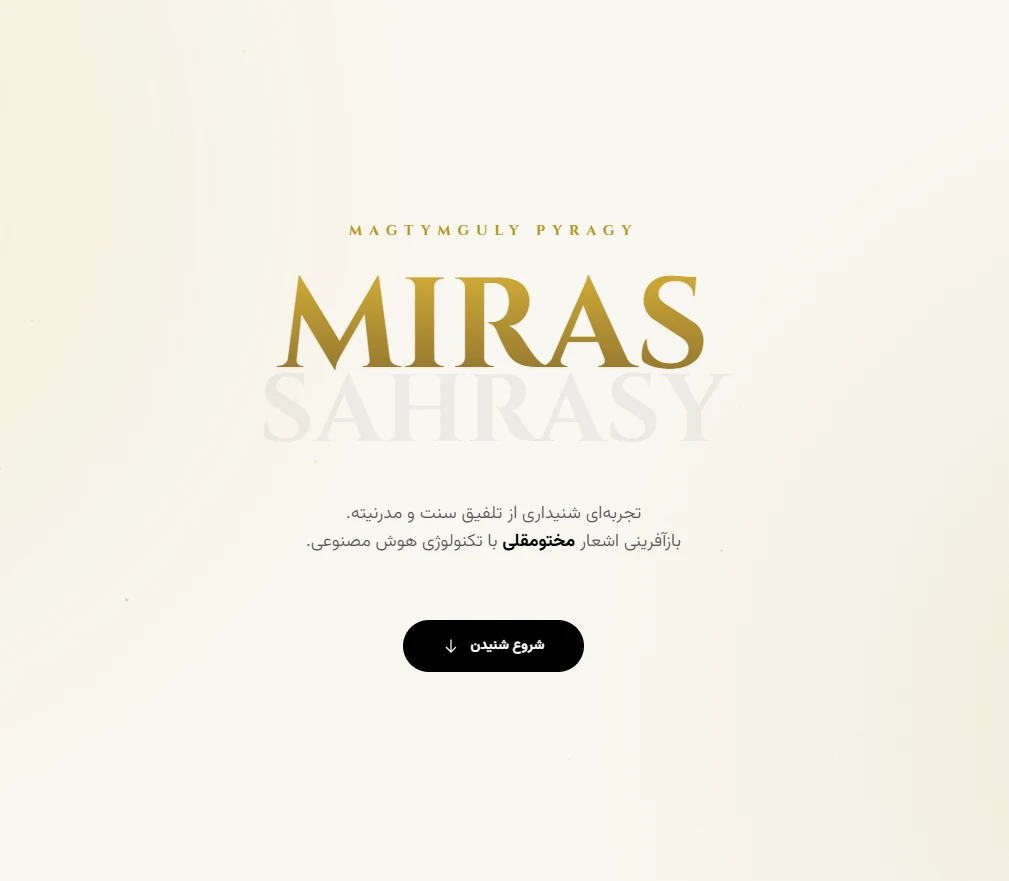
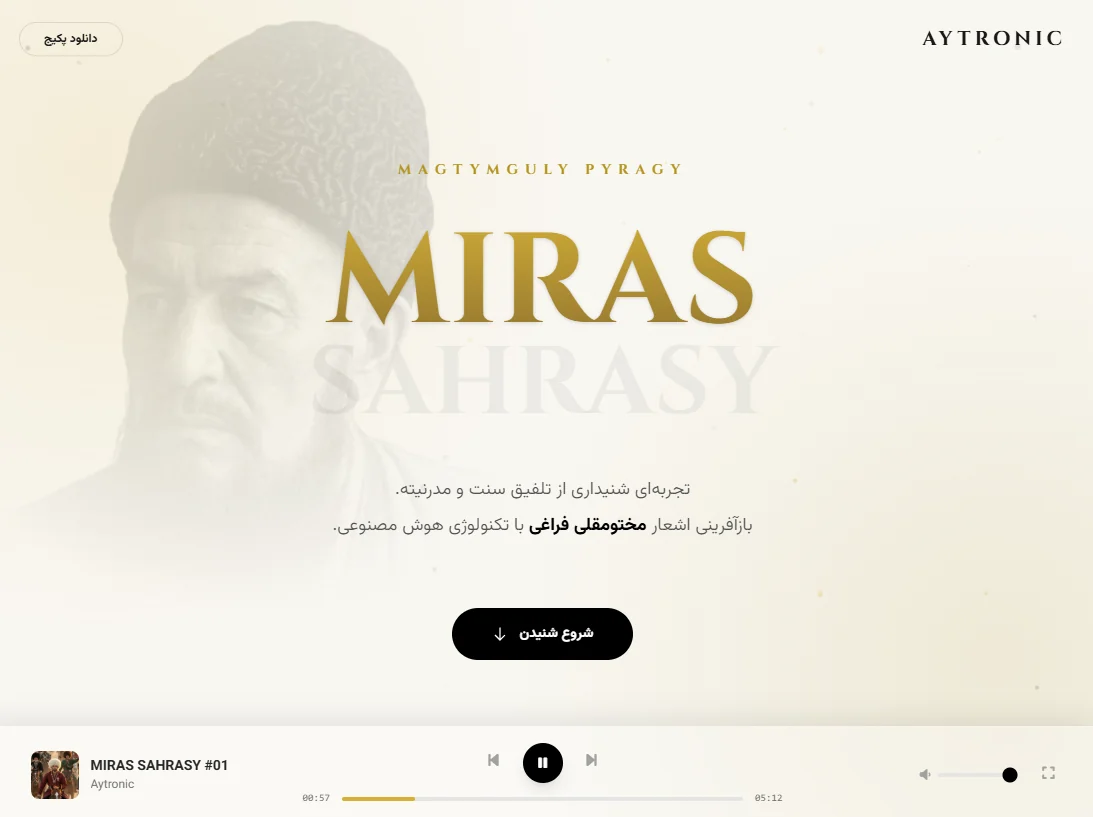
added perfect loading

diff --git a/index.html b/index.html
@@ -242,9 +242,85 @@
       html {
         scroll-behavior: smooth;
       }
+
+      /* Preloader */
+      #preloader {
+        position: fixed;
+        top: 0;
+        left: 0;
+        width: 100%;
+        height: 100%;
+        background-color: #1a1a1a;
+        z-index: 9999;
+        display: flex;
+        flex-direction: column;
+        justify-content: center;
+        align-items: center;
+        transition: opacity 0.8s ease-out, visibility 0.8s ease-out;
+      }
+      .loader-wave {
+        display: flex;
+        justify-content: center;
+        align-items: flex-end;
+        height: 60px;
+        gap: 8px;
+      }
+      .bar {
+        width: 8px;
+        height: 20px;
+        background-color: #d4af37;
+        animation: wave 1.2s ease-in-out infinite;
+        border-radius: 4px;
+        box-shadow: 0 0 10px rgba(212, 175, 55, 0.5);
+      }
+      .bar:nth-child(1) { animation-delay: 0.0s; }
+      .bar:nth-child(2) { animation-delay: 0.1s; }
+      .bar:nth-child(3) { animation-delay: 0.2s; }
+      .bar:nth-child(4) { animation-delay: 0.3s; }
+      .bar:nth-child(5) { animation-delay: 0.4s; }
+      @keyframes wave {
+        0%, 100% { height: 20px; opacity: 0.5; }
+        50% { height: 60px; opacity: 1; }
+      }
+      .loader-text {
+        margin-top: 30px;
+        color: #d4af37;
+        font-family: 'Cinzel', serif;
+        font-size: 1.5rem;
+        letter-spacing: 4px;
+        opacity: 0;
+        animation: fadeIn 2s ease-in-out infinite alternate;
+        text-transform: uppercase;
+      }
+      @keyframes fadeIn {
+        from { opacity: 0.4; text-shadow: 0 0 5px rgba(212, 175, 55, 0.2); }
+        to { opacity: 1; text-shadow: 0 0 20px rgba(212, 175, 55, 0.6); }
+      }
+      body.loaded #preloader {
+        opacity: 0;
+        visibility: hidden;
+      }
     </style>
   </head>
   <body class="antialiased">
+    <!-- Preloader -->
+    <div id="preloader">
+      <div class="loader-wave">
+        <div class="bar"></div>
+        <div class="bar"></div>
+        <div class="bar"></div>
+        <div class="bar"></div>
+        <div class="bar"></div>
+      </div>
+      <div class="loader-text">Miras Sahrasy</div>
+    </div>
+    <script>
+      window.addEventListener('load', () => {
+        setTimeout(() => {
+          document.body.classList.add('loaded');
+        }, 800);
+      });
+    </script>
     <div class="bg-mesh"></div>
     <canvas id="dust-canvas"></canvas>
 
@@ -267,13 +343,11 @@
       class="relative h-screen flex flex-col justify-center items-center text-center px-4 overflow-hidden z-10"
     >
       <!-- Artistic Background Image -->
-      <div
-        class="absolute inset-0 z-0 pointer-events-none select-none md:inset-auto md:top-12 md:left-12 md:w-[40vw] md:h-[80vh]"
-      >
+      <div class="absolute inset-0 z-0 pointer-events-none select-none">
         <img
           src="assets/img/magtymguly.webp"
           alt="Magtymguly Pyragy"
-          class="w-full h-full object-cover object-top opacity-20 mix-blend-multiply grayscale contrast-125 animate-slow-zoom rounded-b-full md:rounded-none"
+          class="w-full h-full object-cover object-top opacity-20 mix-blend-multiply grayscale contrast-125 animate-slow-zoom rounded-b-full md:rounded-none md:w-[40vw] md:h-[80vh] md:absolute md:top-12 md:left-12"
           style="
             -webkit-mask-image: radial-gradient(
               circle at 50% 25%,
@@ -474,7 +548,7 @@
               class="w-10 h-10 md:w-12 md:h-12 rounded-lg bg-neutral-200 overflow-hidden flex-shrink-0 relative group"
             >
               <img
-                src="assets/img/music-cover.jpg"
+                src="assets/img/music-cover.webp"
                 alt="Cover"
                 class="w-full h-full object-cover"
               />
@@ -559,7 +633,10 @@
 
           <!-- Volume / Extra (Hidden on mobile if needed) -->
           <div class="hidden md:flex items-center justify-end w-1/4 gap-2">
-            <i class="fas fa-volume-low text-neutral-400 text-xs"></i>
+            <i
+              id="volume-icon"
+              class="fas fa-volume-high text-neutral-400 text-xs"
+            ></i>
             <input
               type="range"
               id="player-volume"
@@ -597,7 +674,7 @@
       <!-- Background Image (Blurred) -->
       <div
         class="absolute inset-0 z-0 opacity-20 bg-cover bg-center blur-3xl scale-110"
-        style="background-image: url('assets/img/music-cover.jpg')"
+        style="background-image: url('assets/img/music-cover.webp')"
       ></div>
 
       <!-- Dynamic Pulse Background -->
@@ -637,7 +714,7 @@
           class="w-64 h-64 md:w-80 md:h-80 rounded-3xl shadow-2xl shadow-black/50 overflow-hidden mb-10 relative group ring-1 ring-white/10"
         >
           <img
-            src="assets/img/music-cover.jpg"
+            src="assets/img/music-cover.webp"
             alt="Cover"
             class="w-full h-full object-cover transition-transform duration-700 group-hover:scale-110"
           />
@@ -965,6 +1042,7 @@
       const playerNextBtn = document.getElementById('player-next')
       const playerSeek = document.getElementById('player-seek')
       const playerVolume = document.getElementById('player-volume')
+      const volumeIcon = document.getElementById('volume-icon')
       const playerCurrentTime = document.getElementById('player-current-time')
       const playerDuration = document.getElementById('player-duration')
       const progressFill = document.getElementById('progress-fill')
@@ -1071,8 +1149,22 @@
       })
 
       playerVolume.addEventListener('input', (e) => {
+        const vol = parseFloat(e.target.value)
         if (currentAudio) {
-          currentAudio.volume = e.target.value
+          currentAudio.volume = vol
+        }
+
+        volumeIcon.classList.remove(
+          'fa-volume-mute',
+          'fa-volume-low',
+          'fa-volume-high'
+        )
+        if (vol === 0) {
+          volumeIcon.classList.add('fa-volume-mute')
+        } else if (vol < 0.5) {
+          volumeIcon.classList.add('fa-volume-low')
+        } else {
+          volumeIcon.classList.add('fa-volume-high')
         }
       })
 

diff --git a/dist/output.css b/dist/output.css
@@ -589,6 +589,10 @@
   .rounded-lg {
     border-radius: var(--radius-lg);
   }
+  .rounded-b-full {
+    border-bottom-right-radius: calc(infinity * 1px);
+    border-bottom-left-radius: calc(infinity * 1px);
+  }
   .border {
     border-style: var(--tw-border-style);
     border-width: 1px;
@@ -937,6 +941,9 @@
   .opacity-50 {
     opacity: 50%;
   }
+  .opacity-60 {
+    opacity: 60%;
+  }
   .opacity-75 {
     opacity: 75%;
   }
@@ -1228,6 +1235,21 @@
       }
     }
   }
+  .md\:absolute {
+    @media (width >= 48rem) {
+      position: absolute;
+    }
+  }
+  .md\:top-12 {
+    @media (width >= 48rem) {
+      top: calc(var(--spacing) * 12);
+    }
+  }
+  .md\:left-12 {
+    @media (width >= 48rem) {
+      left: calc(var(--spacing) * 12);
+    }
+  }
   .md\:block {
     @media (width >= 48rem) {
       display: block;
@@ -1263,6 +1285,11 @@
       height: calc(var(--spacing) * 80);
     }
   }
+  .md\:h-\[80vh\] {
+    @media (width >= 48rem) {
+      height: 80vh;
+    }
+  }
   .md\:w-1\/4 {
     @media (width >= 48rem) {
       width: calc(1/4 * 100%);
@@ -1288,6 +1315,11 @@
       width: calc(var(--spacing) * 80);
     }
   }
+  .md\:w-\[40vw\] {
+    @media (width >= 48rem) {
+      width: 40vw;
+    }
+  }
   .md\:grid-cols-2 {
     @media (width >= 48rem) {
       grid-template-columns: repeat(2, minmax(0, 1fr));
@@ -1306,6 +1338,11 @@
   .md\:gap-6 {
     @media (width >= 48rem) {
       gap: calc(var(--spacing) * 6);
+    }
+  }
+  .md\:rounded-none {
+    @media (width >= 48rem) {
+      border-radius: 0;
     }
   }
   .md\:py-4 {
